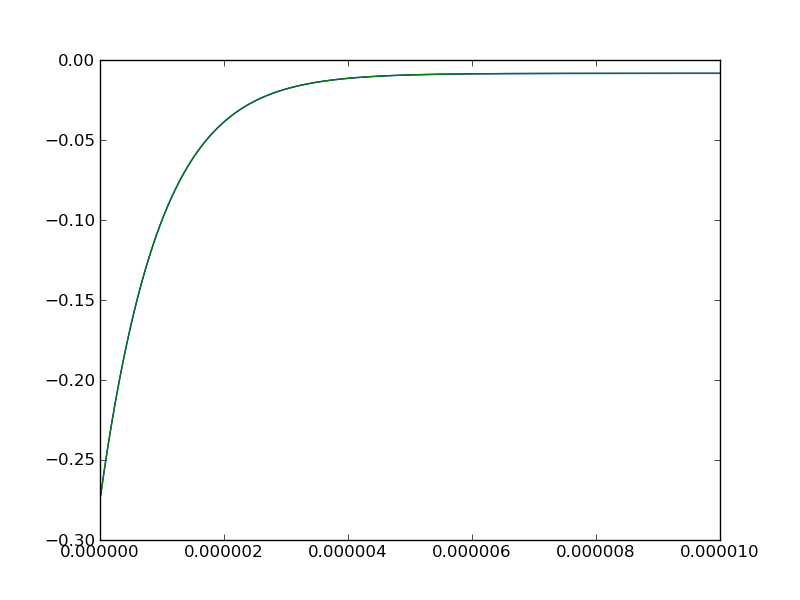
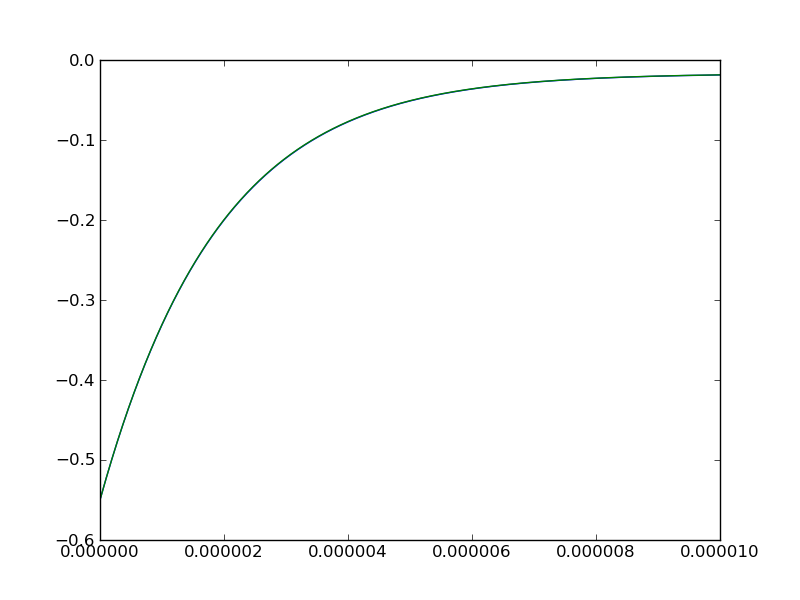
Added in reference electrode.
git-svn-id: svn+ssh://code.matforge.org/wd15/trunk/moffat/electrical@1509 01ab6b12-1d45-0410-8926-c5867bd4e26f

diff --git a/electrical/potential.py b/electrical/potential.py
@@ -14,21 +14,27 @@ condition at :math:`\phi=0` (the working electrode) is given by,
 
 .. math::
 
-    c_{DL} \frac{\partial \psi}{\partial t} + i_{F} \left( \psi \right)  = 
+    c_{DL} \frac{\partial \psi}{\partial t} + i_{F} \left( \psi - \psi_0 \right)  = 
     -\kappa \vec{n} \cdot \nabla \psi
 
 where :math:`c_{DL}` is the capacitance, :math:`i_F` is the
 current density, :math:`\kappa` is the conductance and the normal
-points out of the electrolyte. The boundary condition at the counter electode is :math:`\psi=0`. The current is given by
+points out of the electrolyte. The quantity :math:`\psi_0` is the value
+of :math:`\psi` at the reference electrode. 
+
+
+The boundary condition at the counter electode is :math:`\psi=0`. The
+current is given by
 
 .. math::
 
-    i_F = i_0 \left[\exp{\left(-\frac{\alpha F \left(V_{\text{APPLIED}} - \psi\right) }{R T} \right)} -  \exp{\left(\frac{\left(2 -\alpha\right) F \left(V_{\text{APPLIED}} - \psi\right)}{R T} \right)}  \right]
+    i_F \left( \xi \right) = i_0 \left[\exp{\left(-\frac{\alpha F \left(V_{\text{APPLIED}} - \xi\right) }{R T} \right)} -  \exp{\left(\frac{\left(2 -\alpha\right) F \left(V_{\text{APPLIED}} - \xi \right)}{R T} \right)}  \right]
 
 The paramaters are as follows.
 
 >>> import numpy
->>> delta = 50e-6 ## m
+>>> delta = 100e-6 ## m
+>>> deltaRef = 50e-6 ## m
 >>> faradaysConstant = 9.6485e4 ## C / mol = J / V / mol
 >>> gasConstant = 8.314 ## J / K / mol
 >>> temperature = 298. ## K
@@ -43,31 +49,34 @@ In 1D, we can write an ODE for :math:`\psi` at the interface.
 
 .. math::
 
-    c_{DL} \frac{\partial \psi}{\partial t} + i_{F} \left( \psi \right)  = 
+    c_{DL} \frac{\partial \psi}{\partial t} + i_{F} \left( \psi - \psi_0 \right)  = 
     -\frac{\kappa \psi}{\delta}
 
 where :math:`\psi` is now only defined at the interface. Using scipy we can solve the ODE.
 
->>> def iF(psi):
-...     V = appliedVoltage - psi
+>>> def iF(xi):
+...     V = appliedVoltage - xi
 ...     return i0 * (numpy.exp(-alpha * Fbar * V) - numpy.exp((2 - alpha) * Fbar * V))
 
->>> def iFderivative(psi):
-...     V = appliedVoltage - psi
+>>> def iFderivative(xi):
+...     V = appliedVoltage - xi
 ...     return i0 * (alpha * Fbar * numpy.exp(-alpha * Fbar * V) \
 ...            + (2 - alpha) * Fbar * numpy.exp((2 - alpha) * Fbar * V))
 
 >>> def RHS(t, y):
 ...     psi = y[0]
-...     return numpy.array((-iF(psi) / capacitance  - kappa * psi / delta / capacitance,))
+...     psi0 = (1 - deltaRef / delta) * psi
+...     return numpy.array((-iF(psi - psi0) / capacitance  - kappa * psi / delta / capacitance,))
 
 >>> def jacobian(t, y):
 ...     psi = y[0]
-...     return numpy.array((-iFderivative(psi) / capacitance  - kappa / delta / capacitance,))
+...     psi0 = (1 - deltaRef / delta) * psi
+...     return numpy.array((-iFderivative(psi - psi0) / capacitance  - kappa / delta / capacitance,))
 
 >>> from scipy.integrate import ode
 >>> integrator = ode(RHS, jacobian).set_integrator('vode', method='bdf', with_jacobian=True)
->>> s = integrator.set_initial_value((appliedVoltage,), 0.)
+>>> initialValue = appliedVoltage + (delta - deltaRef) / deltaRef * appliedVoltage
+>>> s = integrator.set_initial_value((initialValue,), 0.)
 
 >>> totalSteps = 1000
 >>> dt = 1e-8
@@ -101,32 +110,38 @@ We solve this problem with FiPy using the ``PotentialEquation``.
 >>> distanceVar.calcDistanceFunction()
 
 >>> potentialVar = CellVariable(mesh=mesh, hasOld=True)
->>> potentialVar[:] = appliedVoltage
+>>> potentialVar[:] = initialValue
 >>> potentialVar.constrain(0, mesh.facesRight)
+
+>>> potentialRef = CellVariable(mesh=mesh, hasOld=True)
+
+>>> xi = potentialVar - potentialRef
 
 >>> potentialEqn = PotentialEquation(var=potentialVar,
 ...                                  distanceVar=distanceVar,
-...                                  currentDensity=iF(potentialVar),
+...                                  currentDensity=iF(xi),
 ...                                  conductivity=kappa,
 ...                                  capacitance=capacitance)
 
 >>> potentialFiPy = numpy.zeros(totalSteps)
+>>> potentialRefs = numpy.zeros(totalSteps)
 
 >>> t = 0.
 >>> for step in range(totalSteps):
 ...     potentialVar.updateOld()
 ...     for sweep in range(5):
+...         potentialRef[:] = potentialVar([[deltaRef]])
 ...         residual = potentialEqn.sweep(potentialVar, dt=dt)
 ...     potentialFiPy[step] = potentialVar.value[interfaceID]
+...     potentialRefs[step] = potentialVar([[deltaRef]])
 
->>> print numpy.allclose(potentialFiPy, potentialSciPy, atol=1e-4)
+>>> print numpy.allclose(potentialFiPy, potentialSciPy, atol=1e-3)
 True
 
 >>> if __name__ == '__main__':
 ...     import pylab
 ...     f = pylab.figure()
 ...     pylab.plot(times, potentialSciPy, times, potentialFiPy)
-...     pylab.savefig('potential.png')
 ...     pylab.show()
 
 

diff --git a/doc/index.rst b/doc/index.rst
@@ -22,12 +22,6 @@ PotentialEquation
 .. automodule:: electrical.potentialEquation
    :members:
 
-1D_counter
-------------
-
-.. automodule:: electrical.1D_counter
-   :members:
-
 Examples
 ========
 
@@ -35,12 +29,6 @@ potential
 ---------
 
 .. automodule:: electrical.potential
-   :members:
-
-potentialCounter
-----------------
-
-.. automodule:: electrical.potentialCounter
    :members:
 
 Indices and tables
